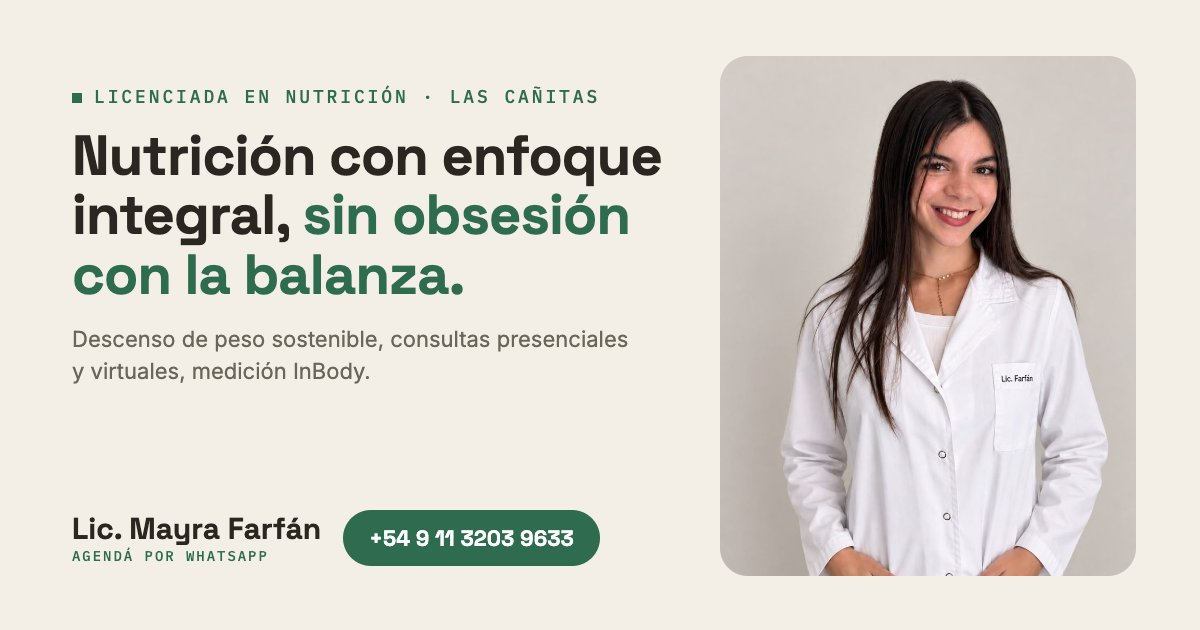
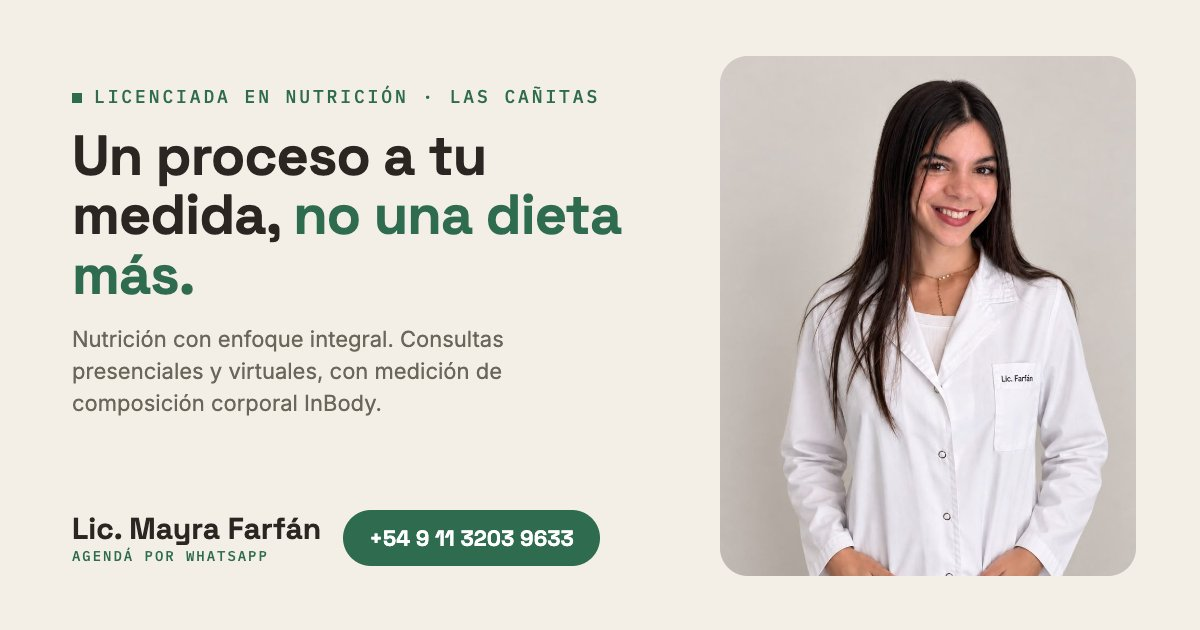
OG actualizado al titular actual; pilar 3 pasa a tecnología
Claude-Session: https://claude.ai/code/session_01Ya1m4QyvqcwBqiSLx6KAGp

Changed region(s): [[0.0617, 0.2111, 0.555, 0.4825], [0.0617, 0.5127, 0.5242, 0.6032], [0.0617, 0.6333, 0.3083, 0.6635]]

diff --git a/index.html b/index.html
@@ -6,10 +6,10 @@
 <title>Lic. Mayra Farfán · Nutrición con enfoque integral · Las Cañitas</title>
 <meta name="description" content="Consultorio de nutrición de la Lic. Mayra Farfán en Las Cañitas, CABA. Descenso de peso con enfoque integral, salud digestiva y condiciones metabólicas, con medición de composición corporal InBody. Presencial y virtual.">
 <meta property="og:title" content="Lic. Mayra Farfán · Un proceso a tu medida, no una dieta más">
-<meta property="og:description" content="Descenso de peso sin obsesión con la balanza. Consultas presenciales en Las Cañitas y virtuales, con medición InBody. Agendá por WhatsApp.">
+<meta property="og:description" content="Nutrición con enfoque integral: descenso de peso, salud digestiva y condiciones metabólicas, con medición de composición corporal InBody. Presencial en Las Cañitas y virtual. Agendá por WhatsApp.">
 <meta property="og:type" content="website">
 <meta property="og:url" content="https://mayrafarfan.com/">
-<meta property="og:image" content="https://mayrafarfan.com/og.jpg">
+<meta property="og:image" content="https://mayrafarfan.com/og.jpg?v=3">
 <meta property="og:image:width" content="1200">
 <meta property="og:image:height" content="630">
 <meta property="og:locale" content="es_AR">
@@ -257,7 +257,7 @@ footer a{text-decoration:none}
   <div class="pillars" style="margin-top:2rem">
     <div class="pillar"><p class="num">01</p><h3>Basado en evidencia</h3><p>Formación clínica hospitalaria y en investigación en salud pública. Las recomendaciones salen de la evidencia científica, no de tendencias.</p></div>
     <div class="pillar"><p class="num">02</p><h3>Enfoque integral</h3><p>Lo que comés es una parte. También miramos el descanso, la actividad, el estrés y tu relación con la comida.</p></div>
-    <div class="pillar"><p class="num">03</p><h3>No peso‑centrista</h3><p>El número de la balanza no cuenta toda la historia. Seguimos lo que importa: músculo, grasa, hidratación y cómo te sentís.</p></div>
+    <div class="pillar"><p class="num">03</p><h3>Tecnología para medir el cambio</h3><p>En cada consulta presencial medimos músculo, grasa e hidratación con InBody. Decisiones con datos reales, no solo con el número de la balanza.</p></div>
   </div>
 </section>
 

diff --git a/flyer/og.html b/flyer/og.html
@@ -18,7 +18,7 @@ p{font-size:22px;line-height:1.45;margin-top:20px;max-width:560px;color:#6B655C}
 </style></head><body>
 <div class="ph"><img src="../img/mayra.jpg" alt=""></div>
 <div class="t"><p class="e">Licenciada en Nutrición · Las Cañitas</p>
-<h1>Nutrición con enfoque integral, <em>sin obsesión con la balanza.</em></h1>
-<p>Descenso de peso sostenible, consultas presenciales y virtuales, medición InBody.</p></div>
+<h1>Un proceso a tu medida, <em>no una dieta más.</em></h1>
+<p>Nutrición con enfoque integral. Consultas presenciales y virtuales, con medición de composición corporal InBody.</p></div>
 <div class="b"><div class="n">Lic. Mayra Farfán<span>Agendá por WhatsApp</span></div><div class="w">+54 9 11 3203 9633</div></div>
 </body></html>
